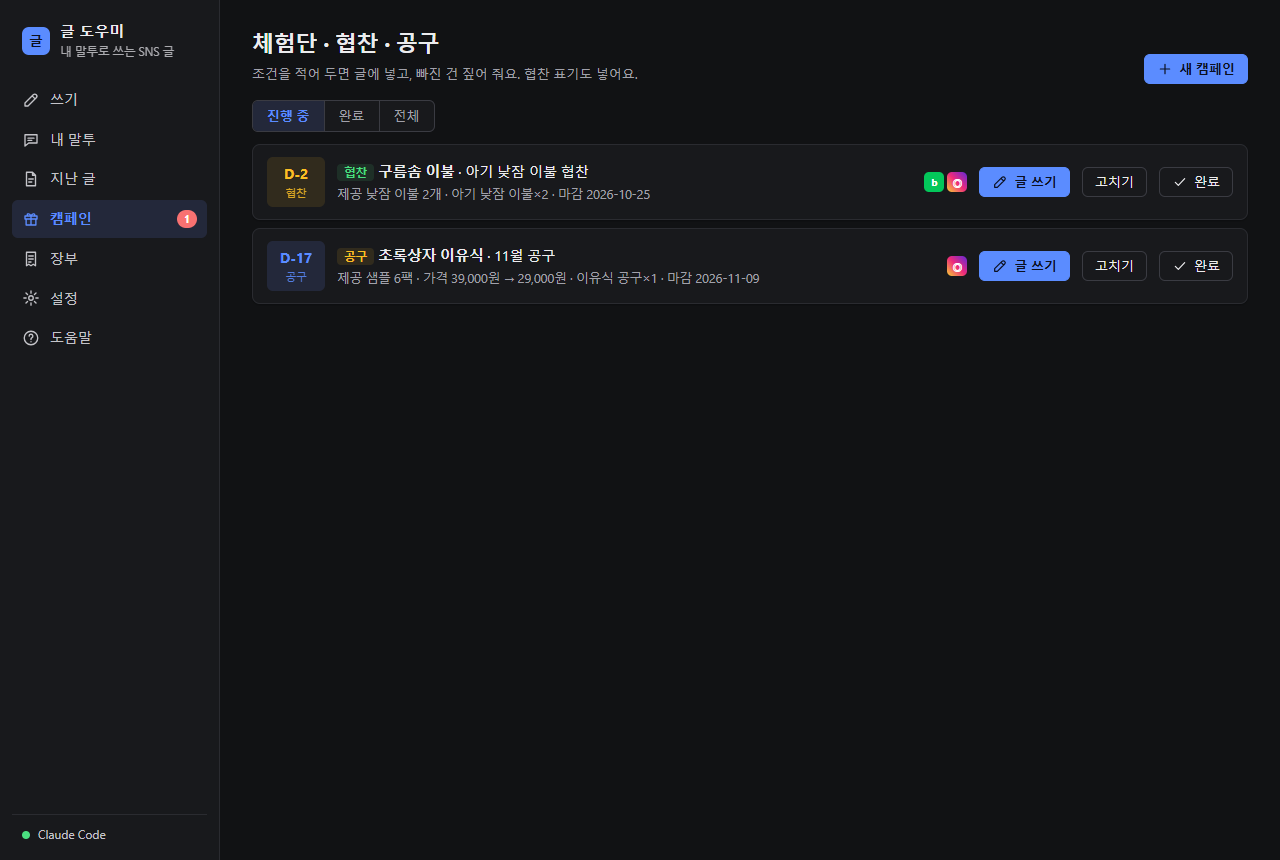
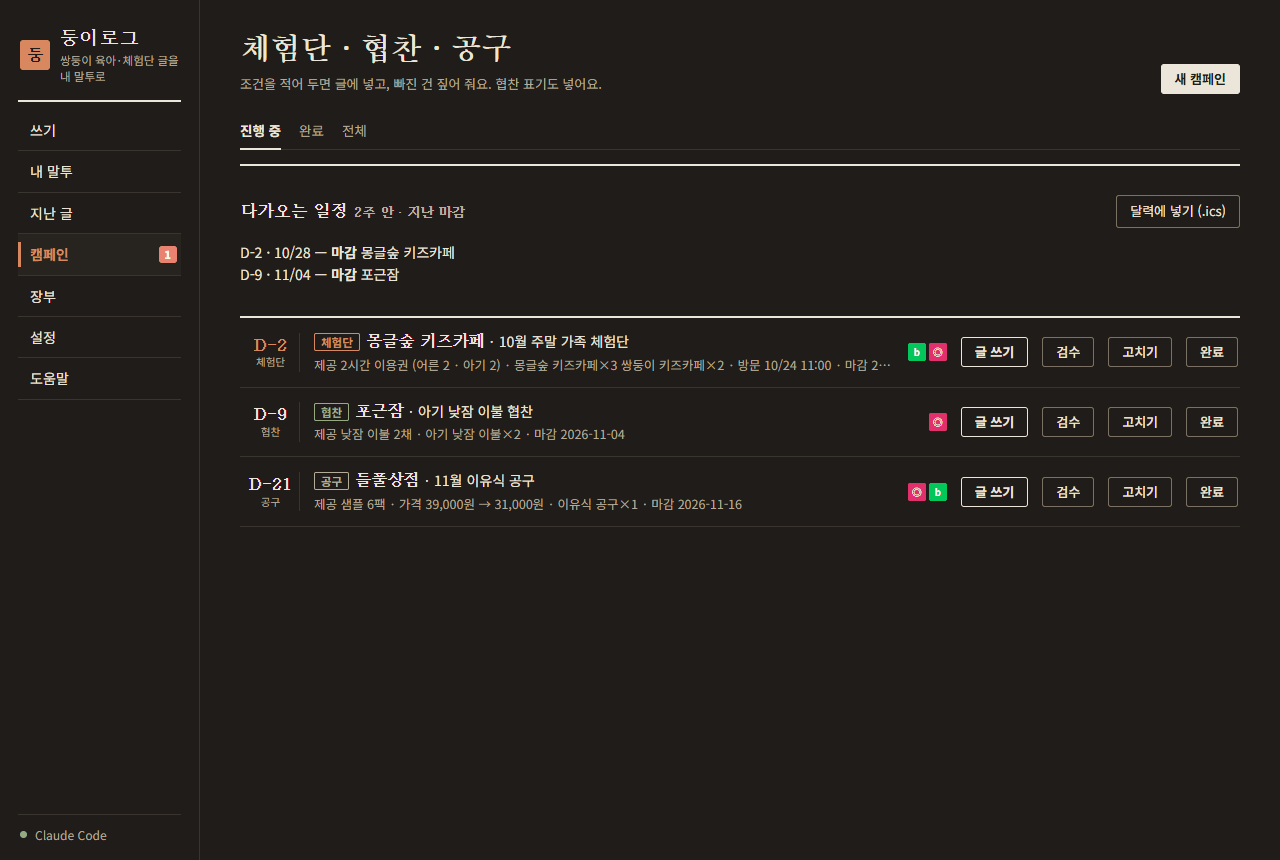
README·문서 스크린샷을 「종이 노트」로 다시 찍음 — 종이·어두운 종이 2종(옛 basic·navy 11장 지움)
가상 견본 데이터(콩이·별이, 몽글숲 키즈카페 등)로만 찍음 — 실명·메일·경로 없음. 테마 표 2칸, ARCHITECTURE 테마 설명 고침.

diff --git a/README.md b/README.md
@@ -24,21 +24,21 @@
 
 ## 화면
 
-![쓰기 화면 — 메모·올릴 곳·사진, 플랫폼별 카드와 AI 티 점검](docs/images/ui-write-basic.png)
+![쓰기 화면 — 메모·올릴 곳·사진, 플랫폼별 카드와 AI 티 점검](docs/images/ui-write-paper.png)
 
 <details>
-<summary>색 테마 3종 · 캠페인 · 장부 · 설정 · 폰 화면 더 보기</summary>
+<summary>색 테마 2종(종이 · 어두운 종이) · 캠페인 · 장부 · 설정 · 폰 화면 더 보기</summary>
 
-| | 기본 | 진한 사이드바 | 다크 |
-|---|---|---|---|
-| 쓰기 | <img src="docs/images/ui-write-basic.png" width="260" alt="쓰기 · 기본"> | <img src="docs/images/ui-write-navy.png" width="260" alt="쓰기 · 진한 사이드바"> | <img src="docs/images/ui-write-dark.png" width="260" alt="쓰기 · 다크"> |
-| 캠페인 | <img src="docs/images/ui-camps-basic.png" width="260" alt="캠페인 · 기본"> | <img src="docs/images/ui-camps-navy.png" width="260" alt="캠페인 · 진한 사이드바"> | <img src="docs/images/ui-camps-dark.png" width="260" alt="캠페인 · 다크"> |
-| 장부 | <img src="docs/images/ui-ledger-basic.png" width="260" alt="장부 · 기본"> | <img src="docs/images/ui-ledger-navy.png" width="260" alt="장부 · 진한 사이드바"> | <img src="docs/images/ui-ledger-dark.png" width="260" alt="장부 · 다크"> |
-| 설정 | <img src="docs/images/ui-settings-basic.png" width="260" alt="설정 · 기본"> | <img src="docs/images/ui-settings-navy.png" width="260" alt="설정 · 진한 사이드바"> | <img src="docs/images/ui-settings-dark.png" width="260" alt="설정 · 다크"> |
+| | 종이 | 어두운 종이 |
+|---|---|---|
+| 쓰기 | <img src="docs/images/ui-write-paper.png" width="380" alt="쓰기 · 종이"> | <img src="docs/images/ui-write-dark.png" width="380" alt="쓰기 · 어두운 종이"> |
+| 캠페인 | <img src="docs/images/ui-camps-paper.png" width="380" alt="캠페인 · 종이"> | <img src="docs/images/ui-camps-dark.png" width="380" alt="캠페인 · 어두운 종이"> |
+| 장부 | <img src="docs/images/ui-ledger-paper.png" width="380" alt="장부 · 종이"> | <img src="docs/images/ui-ledger-dark.png" width="380" alt="장부 · 어두운 종이"> |
+| 설정 | <img src="docs/images/ui-settings-paper.png" width="380" alt="설정 · 종이"> | <img src="docs/images/ui-settings-dark.png" width="380" alt="설정 · 어두운 종이"> |
 
 폰 화면(390px) — 탭이 아래로 내려간다:
 
-<img src="docs/images/ui-phone-write-basic.png" width="200" alt="폰 · 쓰기"> <img src="docs/images/ui-phone-card-basic.png" width="200" alt="폰 · 결과 카드"> <img src="docs/images/ui-phone-camps-basic.png" width="200" alt="폰 · 캠페인"> <img src="docs/images/ui-phone-card-dark.png" width="200" alt="폰 · 결과 카드 다크">
+<img src="docs/images/ui-phone-write-paper.png" width="200" alt="폰 · 쓰기"> <img src="docs/images/ui-phone-card-paper.png" width="200" alt="폰 · 결과 카드"> <img src="docs/images/ui-phone-camps-paper.png" width="200" alt="폰 · 캠페인"> <img src="docs/images/ui-phone-card-dark.png" width="200" alt="폰 · 결과 카드 어두운 종이">
 
 </details>
 
@@ -94,7 +94,7 @@
 | 성장 기록 | 「개월 수」 있는 육아 글을 개월 순으로, 골라서 모은 메모 + 대표 사진으로 새 글, 달 단위로 골라 A4 앨범 PDF(자체 PDF 작성기) | `store.py` · `/api/growth` · `ui.html` `pdfFromJpegs` |
 | 데이터 | 데이터 폴더 옮기기(OneDrive·구글 드라이브) · 백업 zip/되살리기 · 하루 한 번 자동 백업(7개) | `store.py` |
 | 폰에서 쓰기 | 켤 때만 LAN 서버 · QR(자체 구현) · PIN · HttpOnly 세션 | `app.py` `PhoneHandler` · `qr.py` |
-| 화면 | 사이드바 + 카드/표, 색 테마 기본·진한 사이드바·다크(+예전 모양), 좁은 화면은 아래 탭 | `ui.html` |
+| 화면 | 사이드바 + 가로줄·표(디자인 「종이 노트」), 색 테마 종이·어두운 종이, 좁은 화면은 아래 탭 | `ui.html` |
 
 ## 구조
 

diff --git a/README.en.md b/README.en.md
@@ -6,7 +6,7 @@
 
 **Drop in a few photos and a short memo; DungiLog drafts posts for Naver Blog, Naver Cafe, Instagram and TikTok in *your* voice, and keeps track of campaign requirements, deadlines and income.** Posting stays manual by design. — [한국어](README.md)
 
-![Write screen](docs/images/ui-write-basic.png)
+![Write screen](docs/images/ui-write-paper.png)
 
 ## What it does
 
